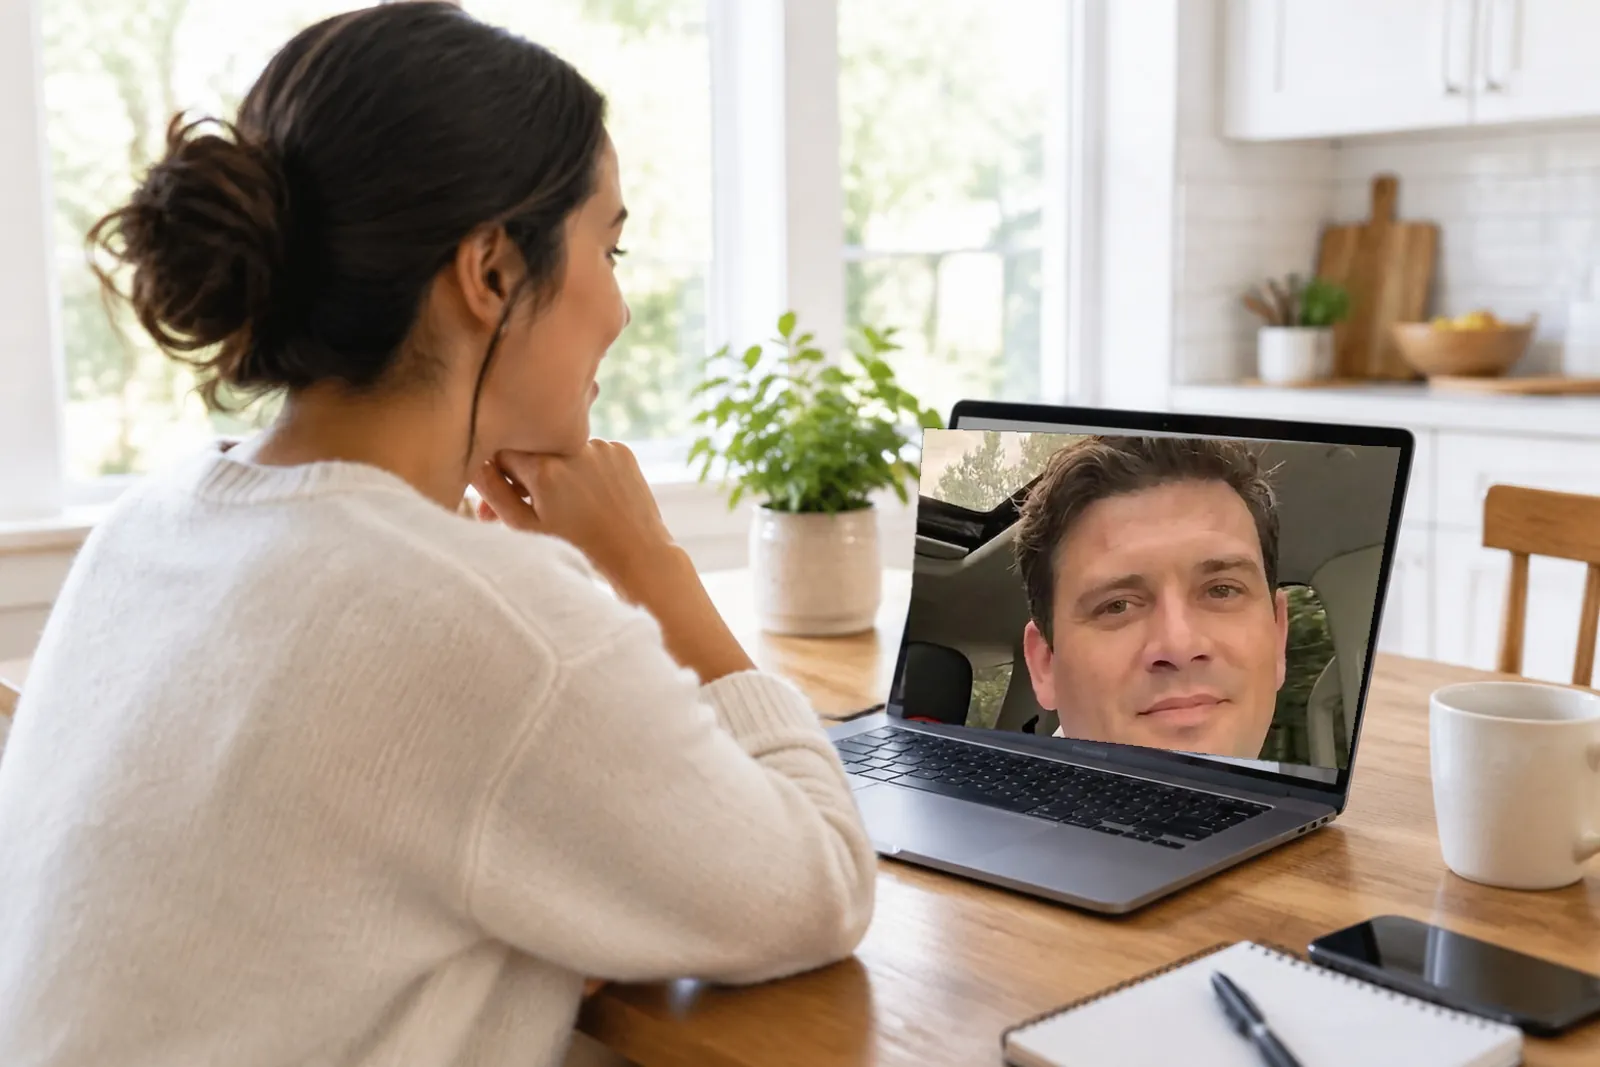
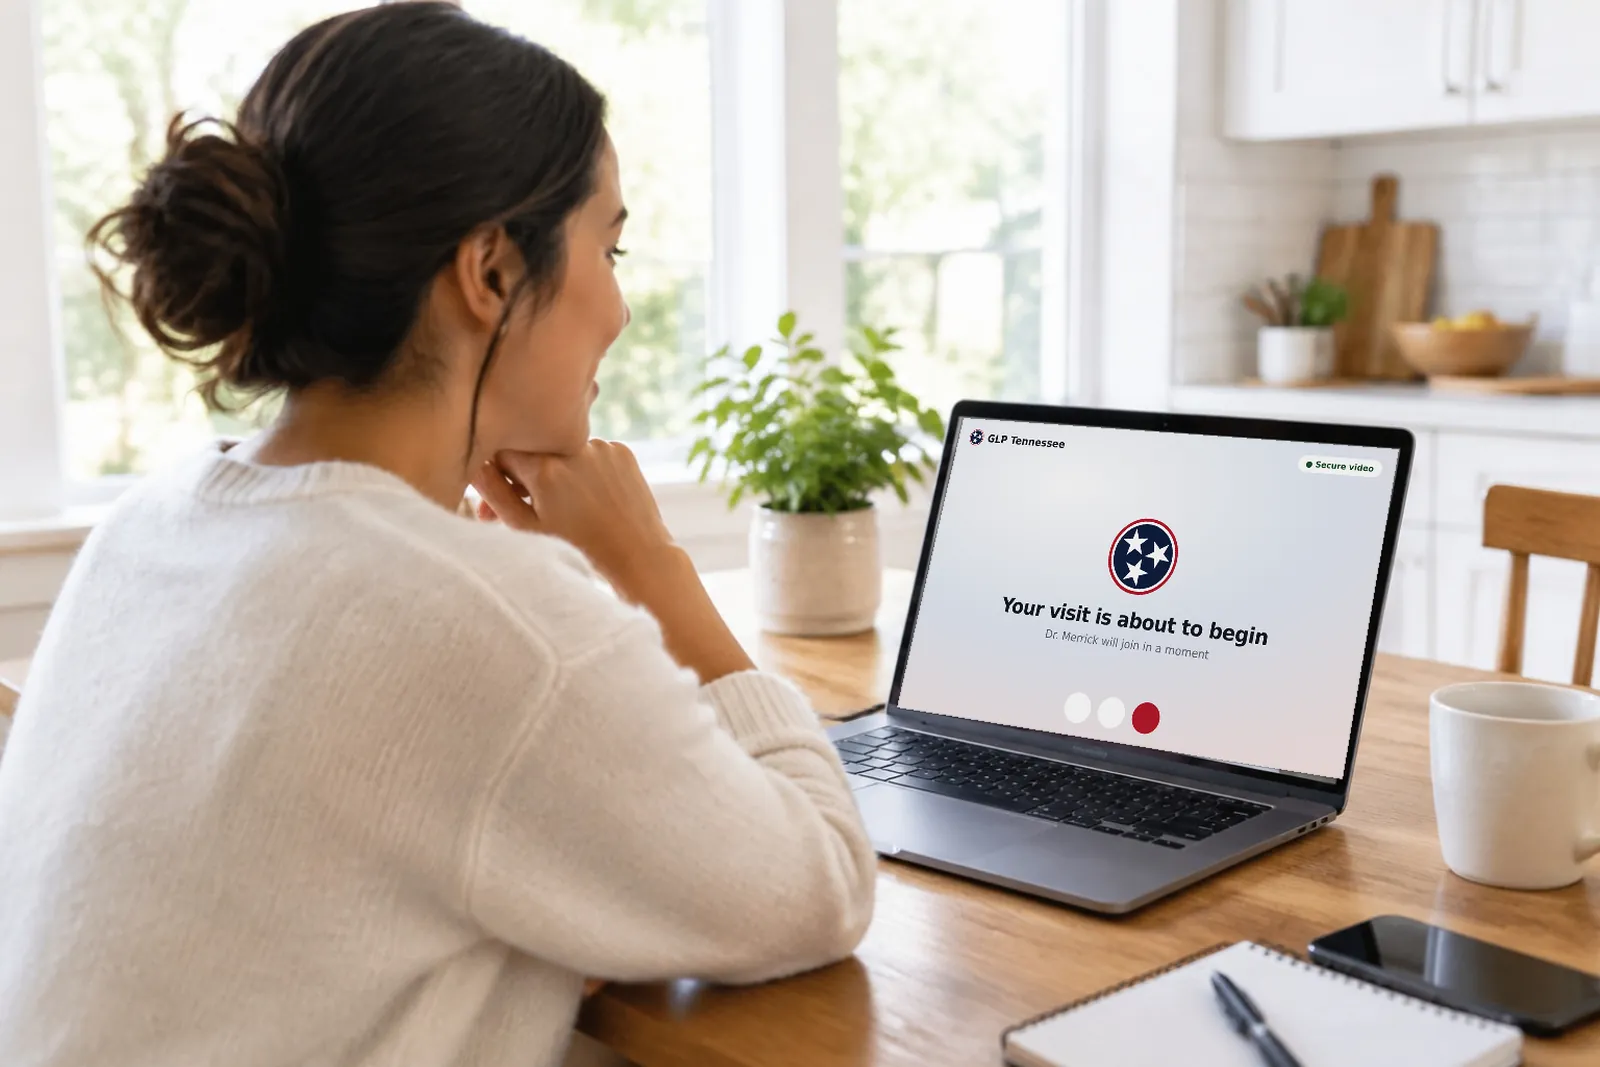
Telehealth scene: replace doctor photo on laptop with branded waiting-room screen, fitted to the display
Claude-Session: https://claude.ai/code/session_01NLpKXfT5hFQbZXFJ8AXHDr

Changed region(s): [[0.5625, 0.3711, 0.875, 0.7423]]

diff --git a/index.html b/index.html
@@ -431,7 +431,7 @@
       <p class="eyebrow">How it works</p>
       <h2>Three steps. No runaround.</h2>
     </div>
-    <figure class="how-photo"><img src="/img/telehealth.webp?v=2" width="1600" height="1067" alt="A woman on a video visit with Dr. Merrick at her kitchen table" loading="lazy"><figcaption>Every visit is by secure video with Dr. Merrick.</figcaption></figure>
+    <figure class="how-photo"><img src="/img/telehealth.webp?v=3" width="1600" height="1067" alt="A woman at her kitchen table about to start a GLP Tennessee video visit" loading="lazy"><figcaption>Every visit is by secure video with Dr. Merrick.</figcaption></figure>
     <ol class="steps">
       <li class="step">
         <div class="num">1</div>
